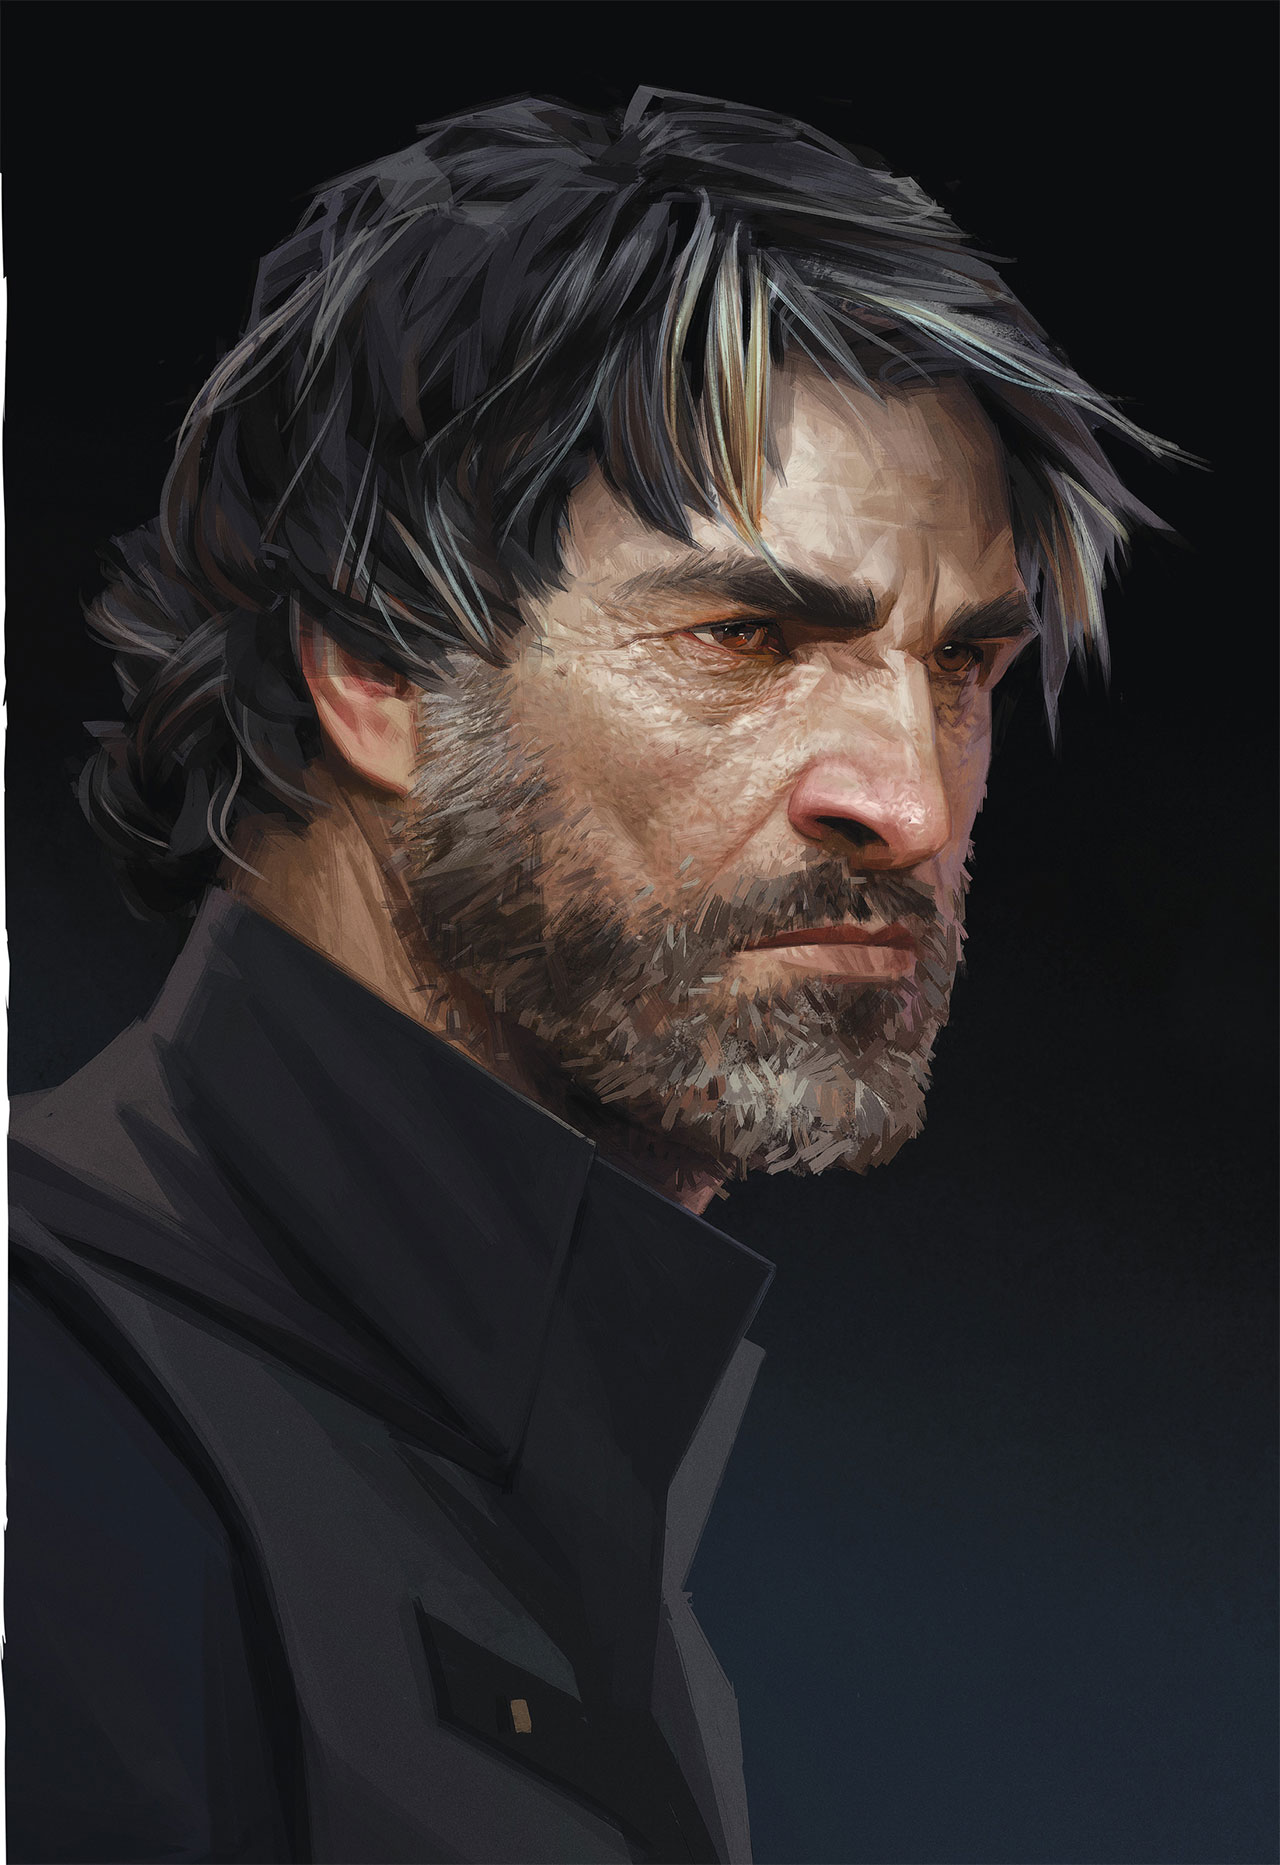
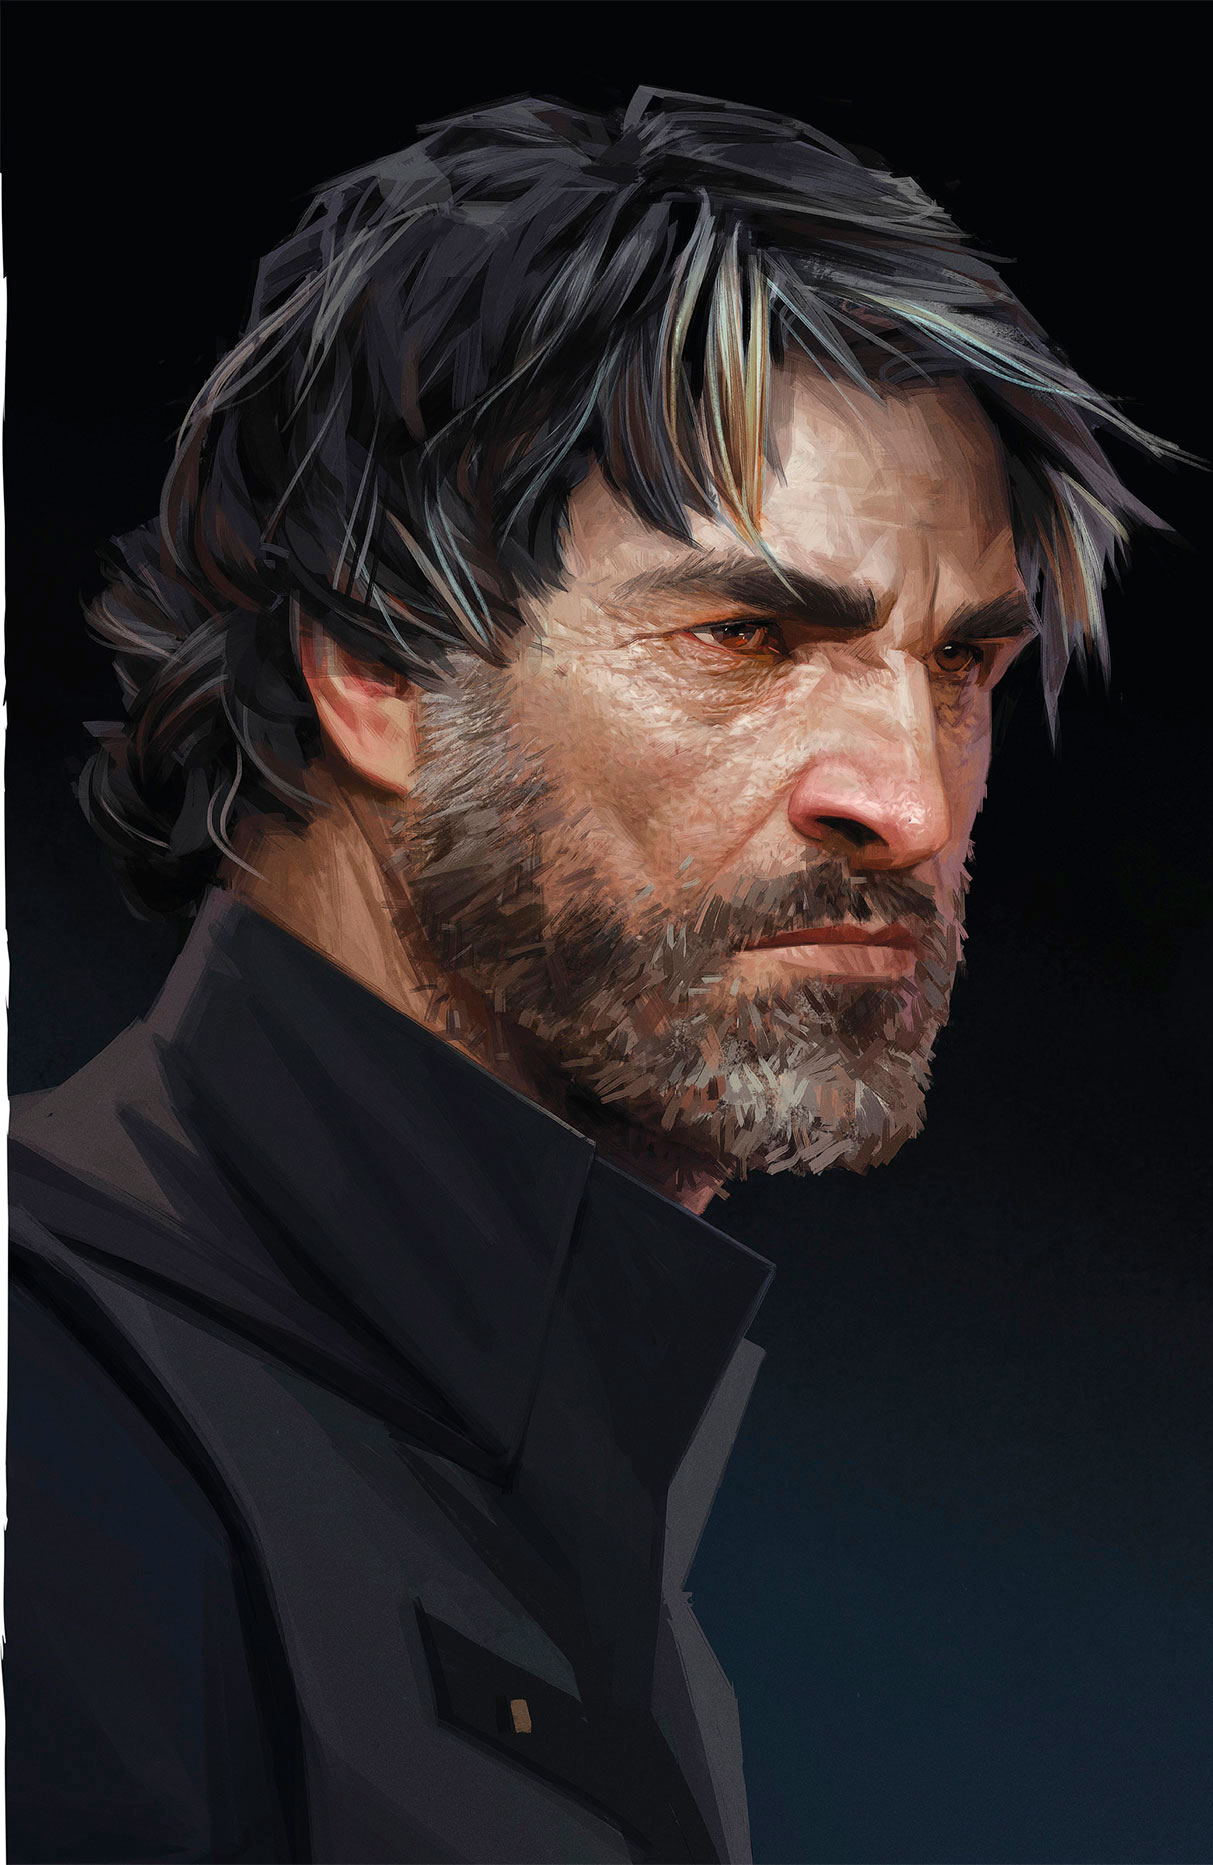
commit20

diff --git a/character.html b/character.html
@@ -31,15 +31,15 @@
 			</div>
 		<div class="center_content">
 <p> 
-<a data-fancybox="gallery" href="images/character2.jpg" > <img src="images/character2.jpg" width="450" height="600"></a>
-<a data-fancybox="gallery" href="images/character4.jpg" > <img src="images/character4.jpg" width="350" height="595"></a>
+<a data-fancybox="gallery" href="images/character4.jpg" > <img src="images/character4.jpg" width="400" height="600"></a>
+<a data-fancybox="gallery" href="images/character7.jpg" > <img src="images/character7.jpg" width="400" height="600"></a>
 </p>
 <p> 
-<a data-fancybox="gallery" href="images/character1.jpg"> <img src="images/character1.jpg" height="500" width="190"></a>
-<a data-fancybox="gallery" href="images/character3.jpg"> <img src="images/character3.jpg" height="500"></a>
-<a data-fancybox="gallery" href="images/character5.jpg"> <img src="images/character5.jpg" height="500" width="200"></a>
-<a data-fancybox="gallery" href="images/character6.jpg"> <img src="images/character6.jpg" height="498" width="211"></a>
+<a data-fancybox="gallery" href="images/character5.jpg"> <img src="images/character5.jpg" width="250" height="571.484375" style="margin-right: 23.835856712px;"></a>
+<a data-fancybox="gallery" href="images/character6.jpg"> <img src="images/character6.jpg" width="284.6671887235709" height="568" style="margin-right: 22px;"></a>
+<a data-fancybox="gallery" href="images/character3.jpg"> <img src="images/character3.jpg" width="217.6610978520286" height="570"></a>
 </p>
+
 		</div>
 	</body>
 </html>

diff --git a/feature.html b/feature.html
@@ -30,9 +30,11 @@
 				</ul>
 			</div>
 		<div class="center_content">
-<a data-fancybox="gallery" href="images/killer.jpg"><img src="images/killer.jpg" align="right" width="400px" height="600px"></a>
-		<font><p class="main_text">Ключевые Особенности</p>
+
+		<font><p class="main_text">
+		Ключевые Особенности</p>
 		<ul>
+		<a data-fancybox="gallery" class="rightimg" href="images/killer.jpg"><img src="images/killer.jpg" width="270px" height="446.7px"></a>
 		<li><p class="main_text">Убийцы</p></li>
 		<p class="main_text">Эмили Колдуин и Корво Аттано полностью озвучены - они реагируют на происходящее и дают свою оценку событиям в игре. Используйте сверхъестественные силы, технические устройства и уникальное оружие, которые подходят именно вашему стилю игры: вы можете прорываться через город с боем, уничтожая каждого, кто встанет у вас на пути, или же бесшумно передвигаться по крышам. И помните: вы всегда можете пощадить любого врага. </p>
 		<li><p class="main_text">Сверхъестественные Силы</p></li>

diff --git a/weapons.html b/weapons.html
@@ -31,8 +31,8 @@
 			</div>		
 		<div class="center_content">
 		<p> 
+<a data-fancybox="gallery" href="images/Weapon2.jpg"><img src="images/Weapon2.jpg" width="600" height="422"></a>		
 <a data-fancybox="gallery" href="images/Weapon1.jpg"><img src="images/Weapon1.jpg" width="200" height="422"></a>
-<a data-fancybox="gallery" href="images/Weapon2.jpg"><img src="images/Weapon2.jpg" width="600" height="422"></a>
 		</p>
 		<p> 
 <a data-fancybox="gallery" href="images/weapon4.jpg"><img src="images/weapon4.jpg" width="800"></a>

diff --git a/style.css b/style.css
@@ -56,5 +56,7 @@
     	}
  		.rightimg  {
     	float: right;
-    	margin:auto;
+   		padding-right: 10px;
+   		padding-bottom: 1px; 
+   		margin-left:10px; 
    		}
